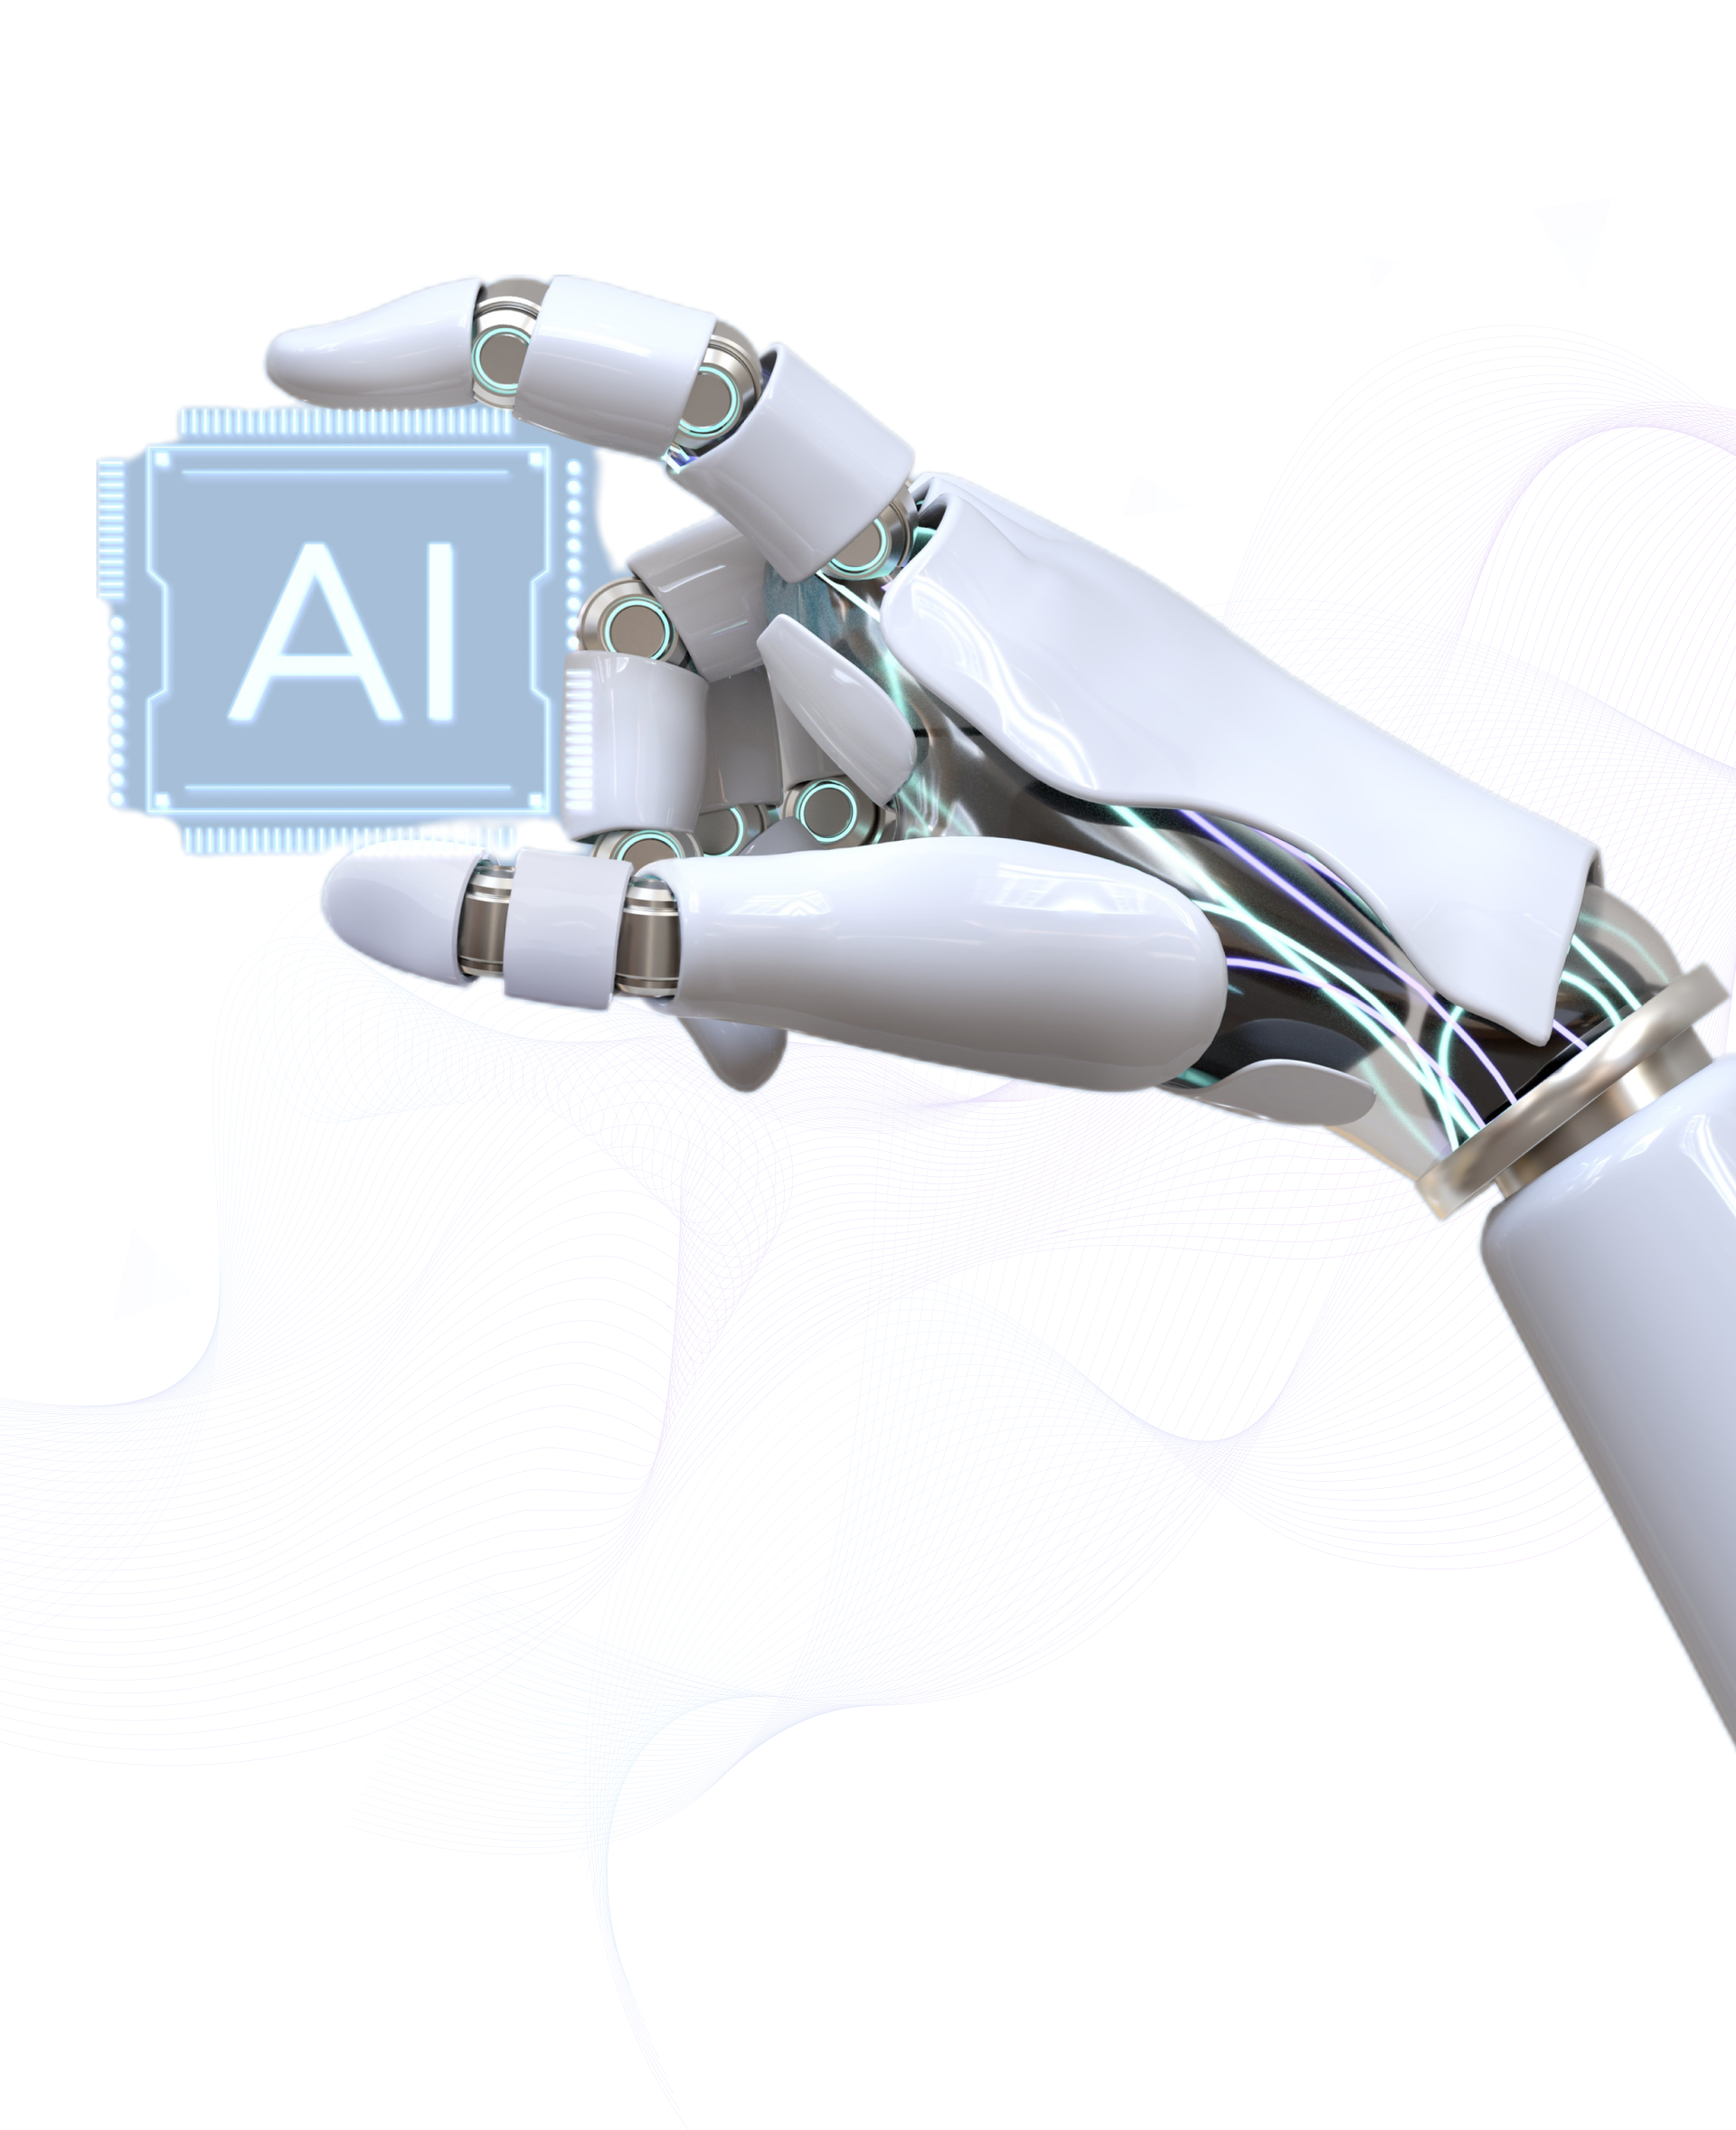
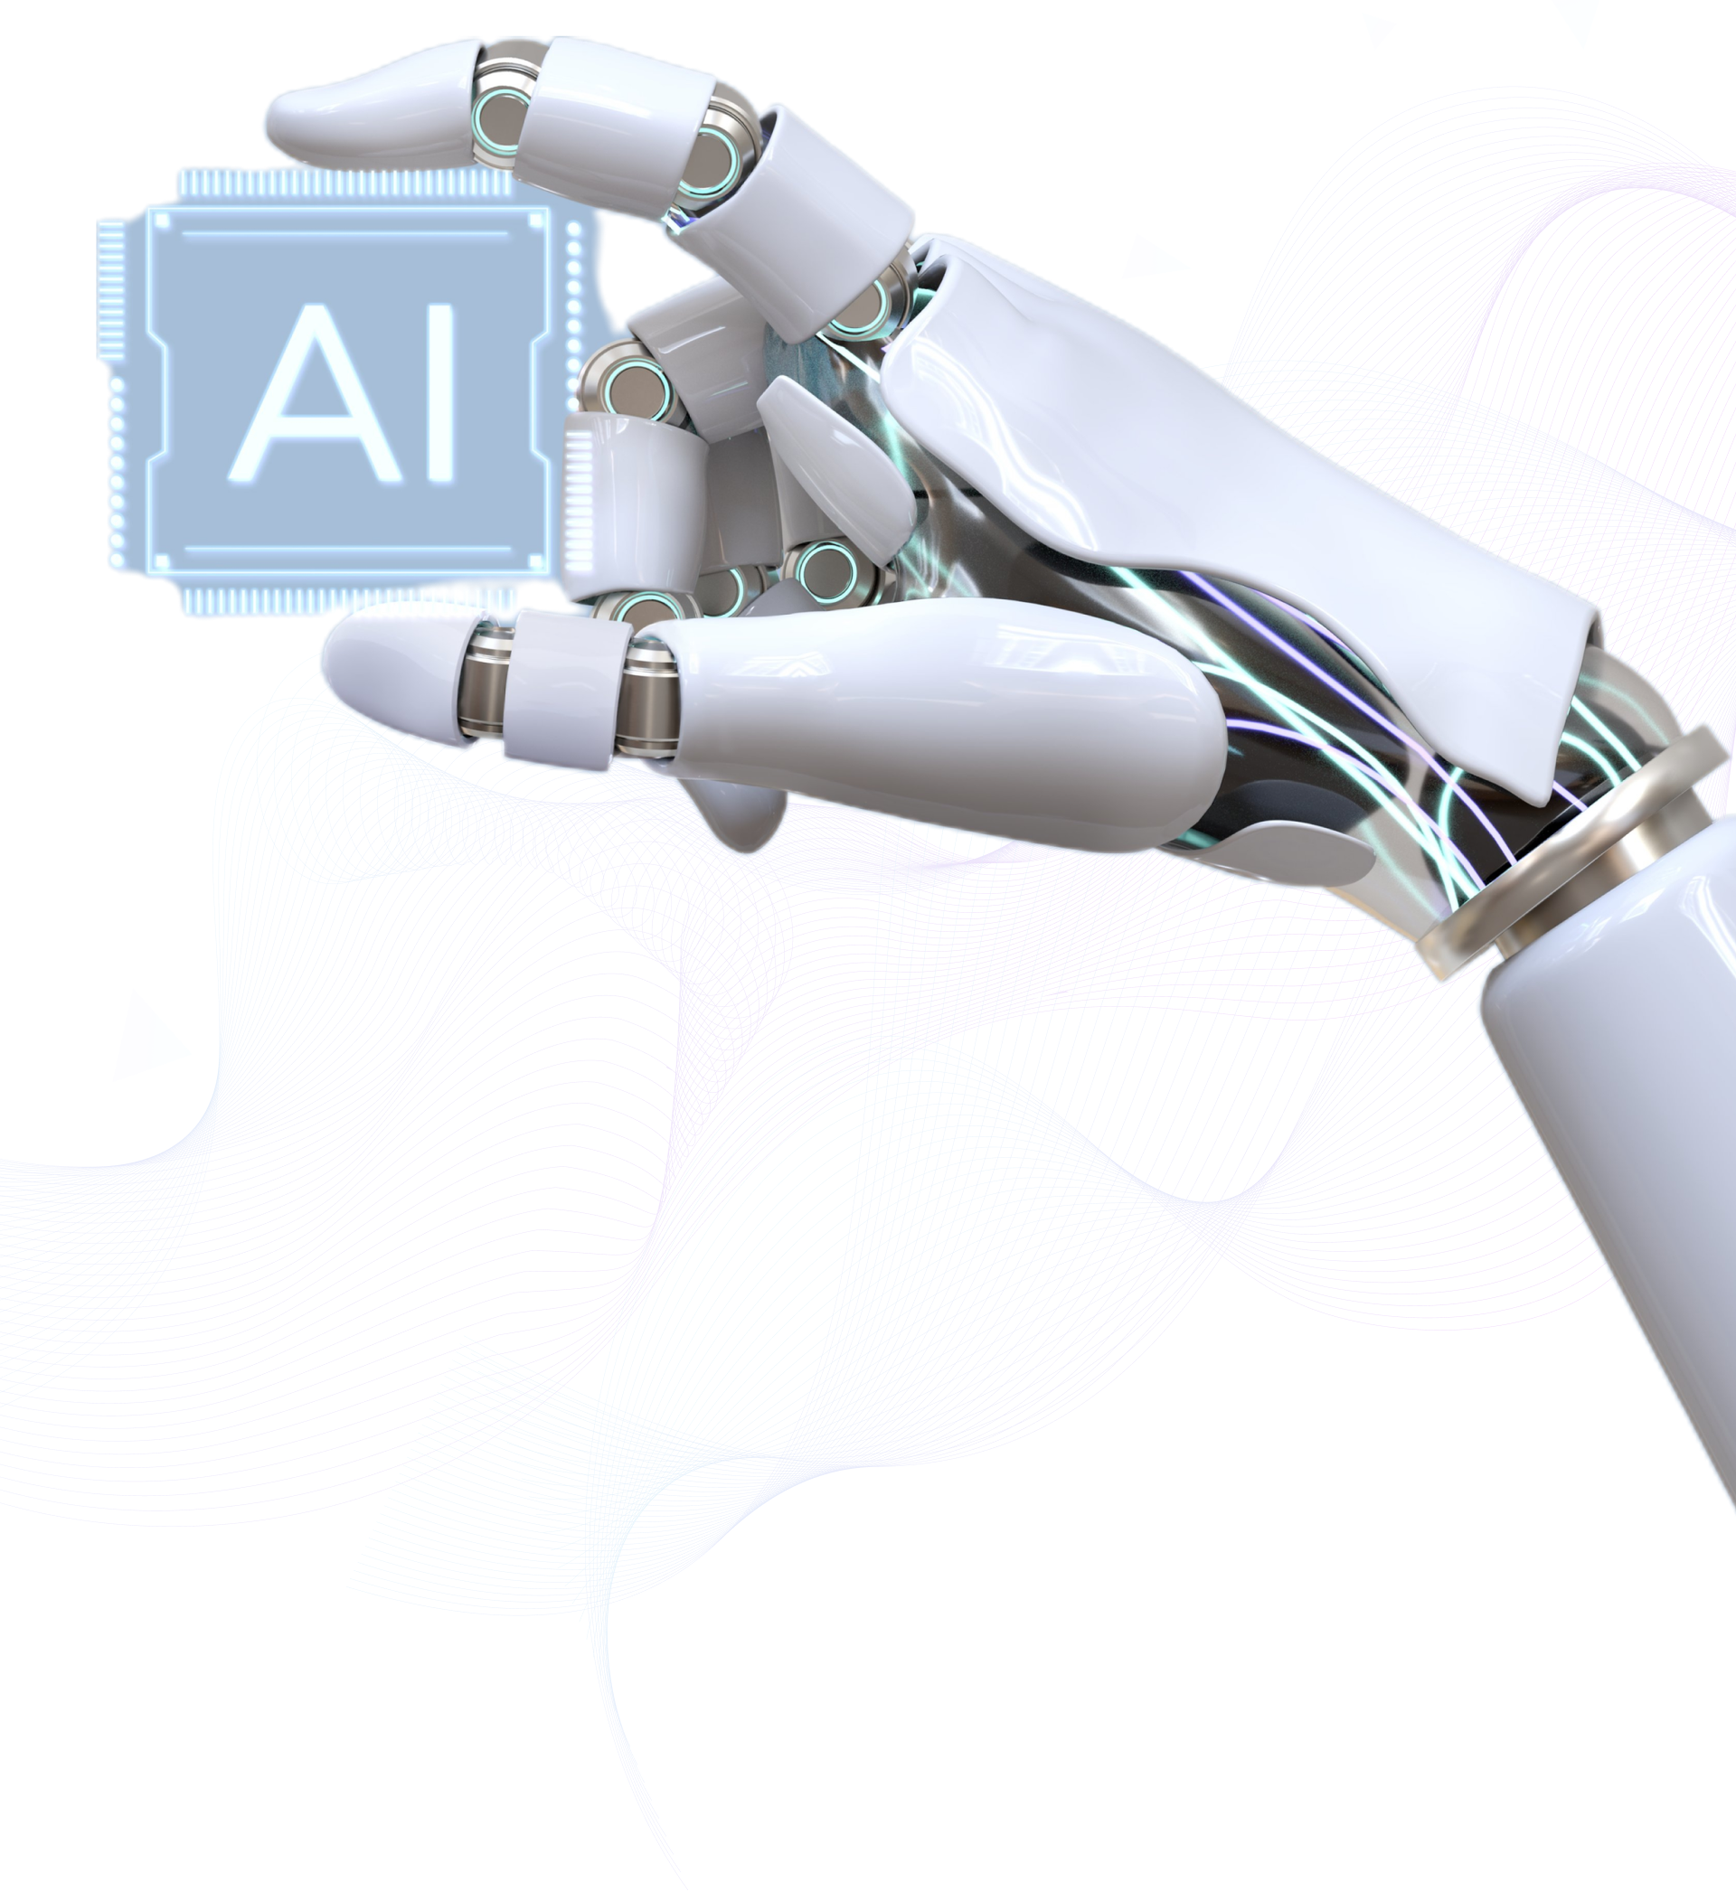
fix responsive

Changed region(s): [[0.0312, 0.0, 1.0, 0.8078], [0.7812, 0.2486, 0.8125, 0.2796]]

diff --git a/Front-end/css/styles.css b/Front-end/css/styles.css
@@ -89,7 +89,7 @@
     width: 100%;
     justify-content: space-between;
     background-image: url('/images/Group\ 115.png');
-    background-position: center;
+    background-position: center top;
     background-repeat: no-repeat;
     background-size: cover;
     position: relative;
@@ -101,12 +101,11 @@
     margin-left: 130px;
 }
 .intro-content-colume {
-    /* display: flex; */
     align-items: flex-end;
 }
 .intro-content-card {
     display: flex;
-    margin: 60px;
+    margin: 5vh;
 }
 .image-intro-content {
     width: 150px;
@@ -129,7 +128,7 @@
 }
 .services-content-title {
     text-align: center;
-    font-size: 48px;
+    font-size: 8vh;
     line-height: 60px;
     font-weight: 700;
     color: var(--seconddary-color);
@@ -145,6 +144,7 @@
     border: 0px;
     position: relative;
     margin: 20px;
+    width: 33.3%;
 }
 .services-content-btn{
     position: absolute;
@@ -152,9 +152,9 @@
     background-color: var(--seconddary-color);
     border: 2px solid var(--seconddary-color);
     border-radius: 0 10px 10px 0;
-    font-size: 24px;
+    font-size: 3vh;
     font-weight: 500;
-    bottom: 120px;
+    bottom: 20vh;
     left: 2px;
 }
 .services-content-btn:hover {
@@ -190,23 +190,23 @@
 }
 
 .content-title {
-    font-size: 48px;
-    line-height: 60px;
+    font-size: 7vh;
+    line-height: 7vh;
     font-weight: 700;
     color: var(--seconddary-color);
 }
 .content-text {
-    font-size: 20px;
-    line-height: 25px;
+    font-size: 2.8vh;
+    line-height: 3.2vh;
     color: var(--seconddary-color);
 }
 .content-btn {
-    font-size: 20px;
+    font-size: 2.8vh;
     font-weight: 600;
     color: #ffffff;
     background: linear-gradient(93.04deg, #D30D60 -8.18%, #2C2660 104.83%);
     border-radius: 118px;
-    padding: 20px 80px;
+    padding: 3vh 9vh;
 }
 /* ----------- SECTION MANAGEMENT END ------------ */
 
@@ -214,7 +214,7 @@
 .about-description {
     background-image: url('/images/Group\ 118.png');
     background-repeat: no-repeat;
-    background-size: cover;
+    background-size: 100% auto;
     display: flex;
     height: 150vh;
     position: relative;
@@ -262,6 +262,7 @@
 }
 .project-img {
     height: 100px;
+    aspect-ratio: 1/1;
     margin: 0 50px;
 }
 .project-text {
@@ -280,10 +281,14 @@
     font-size: 64px;
     line-height: 80px;
     font-weight: 700;
+    justify-content: center;
+    display: flex;
 }
 .project-para-text {
     color: var(--seconddary-color);
     font-size: 24px;
+    justify-content: center;
+    display: flex;
 }
 /* ----------- SECTION PROJECT END ------------ */
 
@@ -305,3 +310,93 @@
     }
 }
 
+@media only screen and (max-width: 1366px) {
+    .content-body {
+        margin-top: 0;
+    }
+    .intro-content {
+        background-position: center top;
+        background-size: 100% auto;
+    }
+    .image-intro-content {
+        width: 8vw;
+        height: 8vw;
+    }
+    .letter-intro-content {
+        font-size: 3vh;
+        line-height: 3vh;
+    }
+}
+@media only screen and (max-width: 1000px) {
+    .intro-content-row {
+        height: 150vh;
+    }
+    .image-intro-content {
+        width: 10vw;
+        height: 10vw;
+    }
+    .letter-intro-content {
+        display: none;
+    }
+    .content-1 {
+        margin-bottom: 10vh;
+    }
+    .services-content-card-text {
+        display: none;
+    }
+    .services-content-btn {
+        bottom: 8vh;
+    }
+    .about-description {
+        background-image: url('/images/Group\ 122.png');
+    }
+    .project-description {
+        display: block;
+    }
+    .project-card {
+        width: 100%;
+        margin: 8vh 0;
+    }
+    .project-parameter {
+        flex-direction: column;
+        align-items: center;
+    }
+}
+@media only screen and (max-width: 800px) {
+    .services-content-btn {
+        font-size: 2vh;
+    }
+    .intro-content-row {
+        height: 120vh;
+    }
+    
+}
+@media only screen and (max-width: 600px) {
+    .services-content-box {
+        flex-direction: column;
+    }
+    .services-content-card {
+        width: 100%;
+        margin: 0;
+    }
+    .intro-content-row {
+        margin-left: 3vh;
+        height: 65vh;
+    }
+    .intro-content-card {
+        margin: 4vh;
+    }
+    .image-intro-content {
+        width: 10vh;
+        height: 10vh;
+    }
+    .content-text {
+        display: none;
+    }
+    .management-content {
+        flex-direction: column;
+    }
+    .content-title {
+        margin-bottom: 3vh;
+    }
+}

diff --git a/Front-end/index.html b/Front-end/index.html
@@ -86,7 +86,7 @@
         <!-- Section Intro -->
         <section class="intro-content">
             <div class="intro-content-row">
-                <div class="intro-content-colume">
+                <div class="intro-content-colume content-1">
                     <div class="intro-content-card">
                         <img class="image-intro-content" src="images/Group 90.png" alt="">
                         <p class="letter-intro-content">
@@ -138,21 +138,21 @@
                 </div>
                 
                 <div class="services-content-box">
-                    <div class="card services-content-card" style="width: 33.3%;">
+                    <div class="card services-content-card">
                         <img src="/images/Group 114.png" class="card-img-top services-content-image" alt="...">
                         <a href="#" class="btn services-content-btn">GET STARTED</a>
                         <div class="card-body services-content-card-body">
                             <p class="card-text services-content-card-text">Some quick example text to build on the card title and make up the bulk of the card's content.</p>
                         </div>
                     </div>
-                    <div class="card services-content-card" style="width: 33.3%;">
+                    <div class="card services-content-card">
                         <img src="/images/Group 114.png" class="card-img-top services-content-image" alt="...">
                         <a href="#" class="btn services-content-btn">GET STARTED</a>
                         <div class="card-body services-content-card-body">
                             <p class="card-text services-content-card-text">Some quick example text to build on the card title and make up the bulk of the card's content.</p>
                         </div>
                     </div>
-                    <div class="card services-content-card" style="width: 33.3%;">
+                    <div class="card services-content-card">
                         <img src="/images/Group 114.png" class="card-img-top services-content-image" alt="...">
                         <a href="#" class="btn services-content-btn">GET STARTED</a>
                         <div class="card-body services-content-card-body">
@@ -170,10 +170,10 @@
                 <img class="logo-section-item" src="/images/Group.png" alt="logo">
             </div>
             <div class="management-content">
-                <div class="col-8">
+                <div class="col-md-7 col-xs-12">
                     <img src="/images/3920930534825804784.gif" alt="business-3d-man-sitting-with-smartphone 1" style="width: 100%">
                 </div>
-                <div class="col-4" style="display: flex; align-items: center;">
+                <div class="col-md-5 col-xs-12" style="display: flex; align-items: center;">
                     <div class="card-body management-content-description">
                         <p class="card-title content-title">Crowd Management</p>
                         <p class="card-text content-text">The quality of AI data depends on the people who collect and annotate it, so we make sure to support every single resource 24/7 so that they can deliver the highest-quality data.
